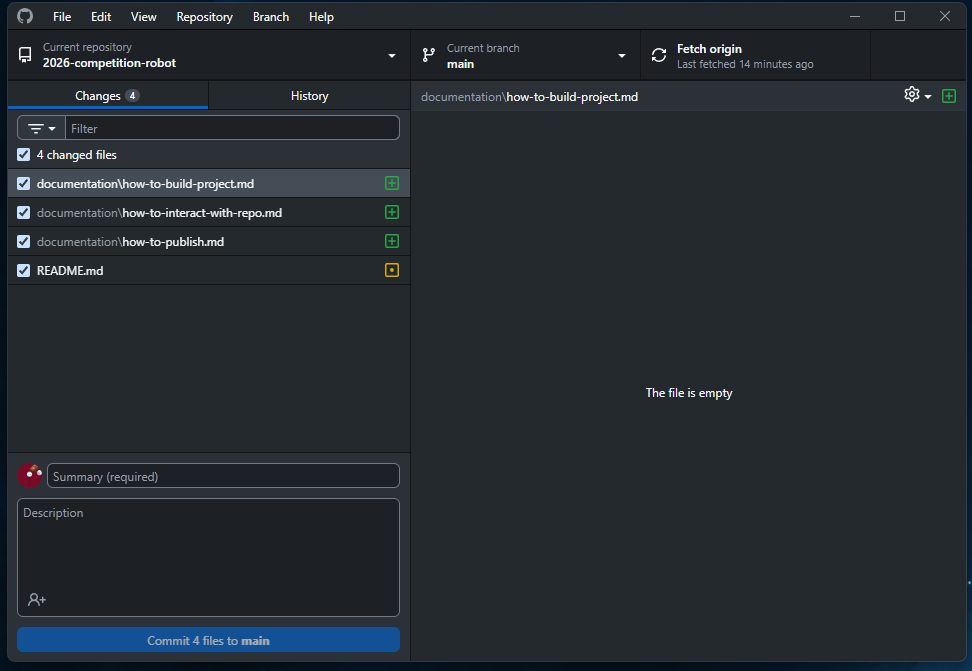
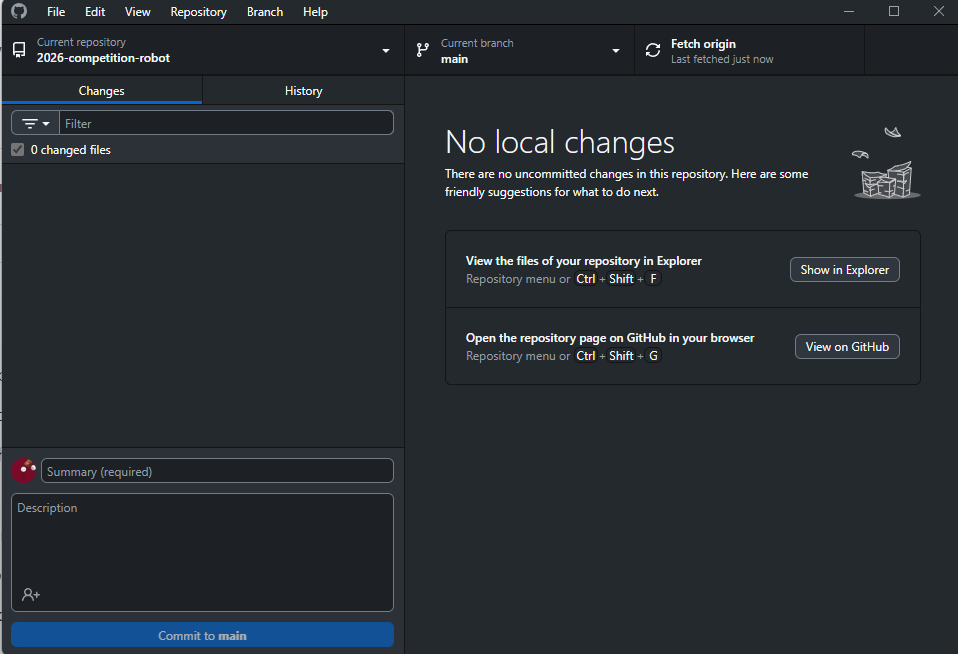
add screenshots and build documentation

diff --git a/documentation/how-to-interact-with-repo.md b/documentation/how-to-interact-with-repo.md
@@ -1,0 +1,18 @@
+# Description
+This page documents how to use github desktop with this repo and the expected flow.
+
+# Instructions
+
+1. Open github desktop  
+ ![github desktop](./screenshots/github-desktop.png)
+2. Create a new branch for what you are working on.  
+    a. click the current branch button at the top and add new branch
+    ![new branch](./screenshots/create-new-branch.png)
+    b. name the new branch something relevant to what you are doing
+    ![name](./screenshots/name-branch.png)
+    c. make changes
+3. After making changes on your new branch commit them
+    a. select the files you changed  that you want to commit in the changes window and add a relevant commit message in the summary for what changes you made.
+    ![commit message](./screenshots/add-commit-message.png)
+    b. verify your commited changes are what you want by going to the history tab and checking the commit you just made.
+    ~[verify](./screenshots/verify-commit.png)
